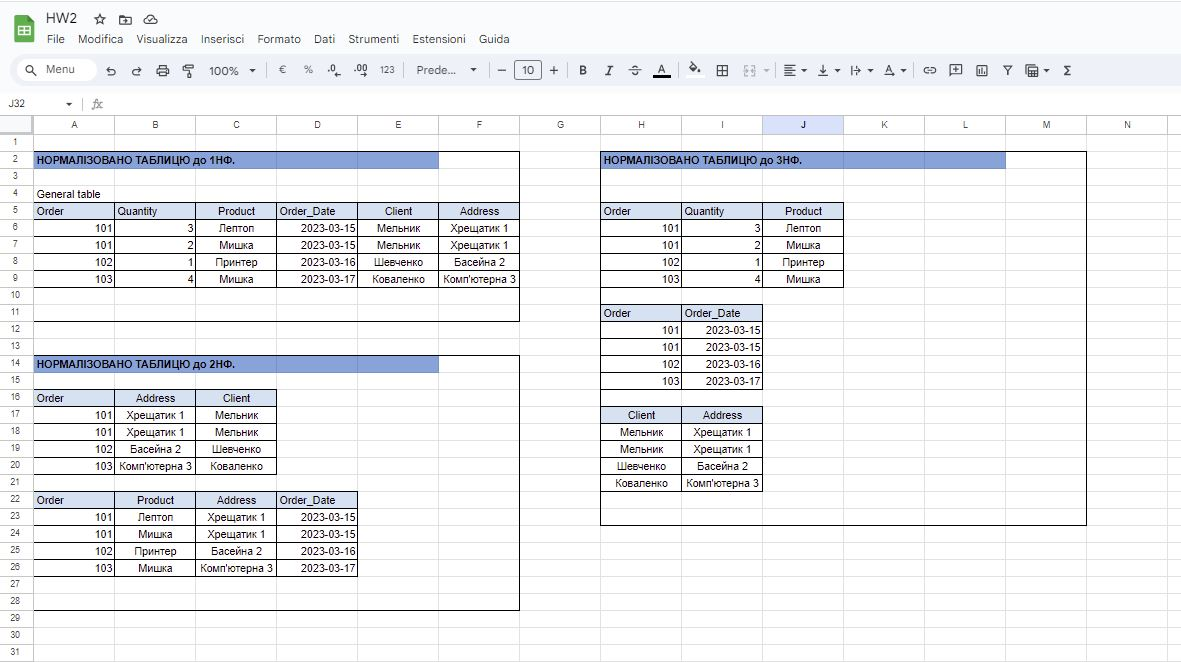
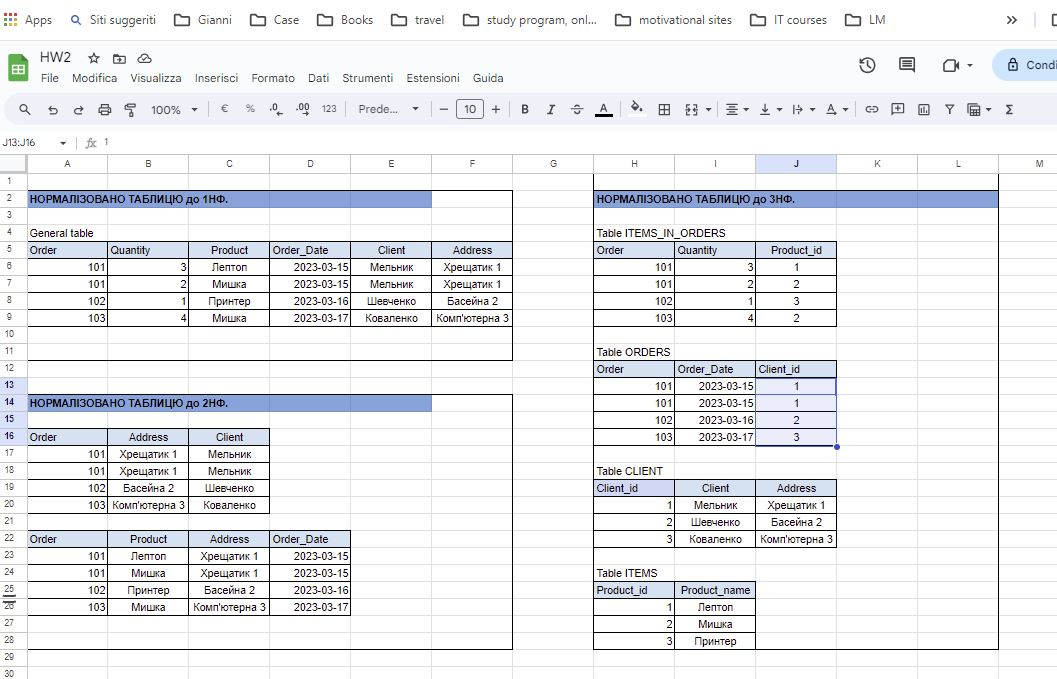
readme , table normilized 3НФ

diff --git a/README.md b/README.md
@@ -1,2 +1,68 @@
 # goit-rdb-hw-02
-Home task for Relational Databases: SQL course
+
+# Home task for Relational Databases: SQL course
+
+# Домашнє завдання до Теми 2. Проектування баз даних з використанням семантичних моделей
+
+# Вітаємо в першому домашньому завданні! 🙂
+
+Сьогодні ви опануєте практичні аспекти впровадження концепцій нормалізації баз даних та моделювання сутність-зв'язок (ER). Ці навички є важливими для будь-якого розробника та відіграють ключову роль у створенні ефективних і добре структурованих систем керування інформацією.
+
+# Вам потрібно буде:
+
+перевести таблицю до такого стану, щоб вона відповідала вимогам першої, другої та третьої нормальної форм;
+створити ER-діаграму, що відображає взаємозв'язки між сутностями;
+створити таблиці в базі даних на основі ER-діаграми.
+
+# Це завдання допоможе вам:
+
+Опанувати техніку переведення даних у нормалізовану форму для забезпечення їхньої ефективності та послідовності.
+Зрозуміти, як визначати й моделювати сутності та їхні взаємозв'язки, що є важливим для правильної організації інформації в базі даних.
+
+Не забувайте, що це ваш шлях, пройшовши який ви зможете стати гарним спеціалістом, що володіє навичками роботи з базами даних . Завдання призначене для вашого розвитку та розуміння матеріалу. У вас усе вийде! 💪🏼
+
+# Підготовка та завантаження домашнього завдання
+
+Створіть публічний репозиторій goit-rdb-hw-02.
+Виконайте завдання та відправте скриншоти таблиць, файл і/або скриншот ER-діаграми та скриншот розгорнутої схеми у Workbench у свій репозиторій.
+Завантажте перелічені скриншоти на свій комп’ютер та прикріпіть їх в LMS архівом. Назва архіву повинна бути у форматі ДЗ2_ПІБ.
+Прикріпіть посилання на репозиторій goit-rdb-hw-02 та відправте на перевірку.
+
+# Формат здачі
+
+Прикріплені файли репозиторію архівом із назвою ДЗ2_ПІБ.
+Посилання на репозиторій.
+💡 ВАЖЛИВО
+Перегляньте Інструкцію щодо завантаження робочого файлу з репозиторію на Github
+
+💡 Використовуйте зрозумілі та конкретні імена для сутностей та атрибутів. Уточнюйте типи даних для атрибутів. Перевірте, чи всі відношення й атрибути мають чіткі і зрозумілі кардинальності та значення.
+
+5. Використовуючи ER-діаграму, створіть таблиці в базі даних. Оформіть ці таблиці без конкретних значень, тільки з урахуванням колонок та їхніх зв'язків, вручну або автоматично.
+
+# Початкова таблиця
+
+![Table](./data/table.jpg)
+
+Критерії прийняття
+
+1. Прикріплені посилання на репозиторій goit-rdb-hw-02 та безпосередньо самі файли репозиторію архівом.
+
+2. Нормалізовано таблицю до 1НФ.
+
+3. Нормалізовано таблицю до 2НФ.
+
+4. Нормалізовано таблицю до 3НФ.
+
+💡 Результат нормалізації таблиць може бути в довільній формі/форматі (Google Doc, Google таблиці тощо).
+
+5. Створено ER-діаграму отриманих таблиць. Діаграма має відповідати нормалізованим таблицям.
+
+💡 Має бути декілька таблиць зі зв’язком між ними. Результат може бути у вигляді файлу та/або скриншота.
+
+6. Використано зрозумілі та конкретні імена для сутностей та атрибутів. Уточнено типи даних для атрибутів. Усі відношення й атрибути мають чіткі і зрозумілі кардинальності та значення.
+
+7. Створено таблиці в базі даних (тільки таблиці й колонки з урахуванням зв'язків) вручну або автоматично.
+
+💡 Результат має бути у вигляді скриншота розгорнутої схеми у Workbench.
+
+![Result](./data/example.png)
